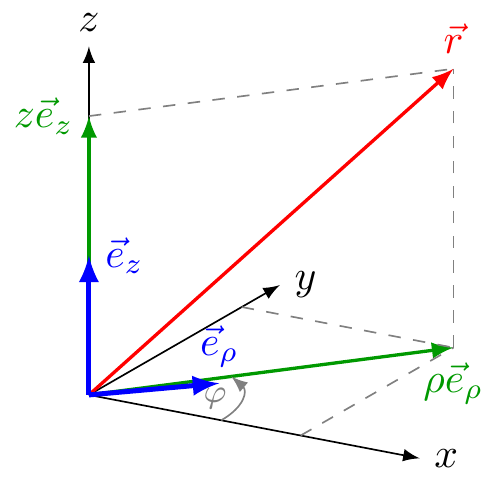
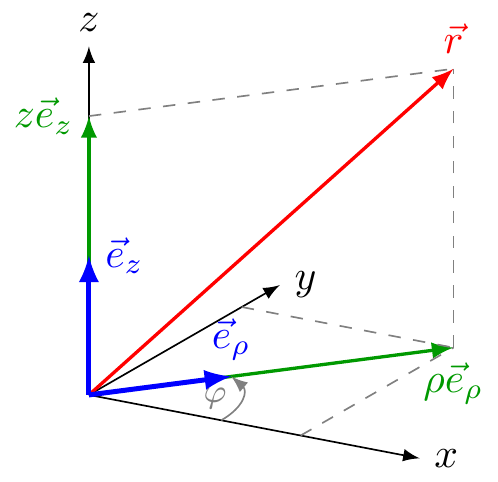
fix typo

Changed region(s): [[0.1807, 0.6535, 0.512, 0.8402]]

diff --git a/mathematics/cylinder-space-vector/cylinder-space-vector.tex b/mathematics/cylinder-space-vector/cylinder-space-vector.tex
@@ -65,7 +65,7 @@
     \draw[gray,dashed] (axis cs:0,{\py},0) -- (axis cs: {\px},{\py},0);
     % unit vectors
     \draw[->,blue,very thick] (axis cs:0,0,0) -- (axis cs: 0,0,1) node[right] { $\vec{e}_z$ };
-    \draw[->,blue,very thick] (axis cs:0,0,0) -- (axis cs: {\px/sqrt(\px^2 + \py^2)},{\px/sqrt(\px^2 + \py^2)},0) node[above] { $\vec{e}_\rho$ };
+    \draw[->,blue,very thick] (axis cs:0,0,0) -- (axis cs: {\px/sqrt(\px^2 + \py^2)},{\py/sqrt(\px^2 + \py^2)},0) node[above] { $\vec{e}_\rho$ };
     % polar angle
     \draw[->,gray] (axis cs:1,0,0) arc (0:{atan(\py/\px)}:1) node[left,pos=0.5] {\footnotesize $\varphi$};
   \end{axis}

diff --git a/mathematics/cylinder-space-vector/cylinder-space-vector_inverted.tex b/mathematics/cylinder-space-vector/cylinder-space-vector_inverted.tex
@@ -74,7 +74,7 @@
     \draw[gray,dashed] (axis cs:0,{\py},0) -- (axis cs: {\px},{\py},0);
     % unit vectors
     \draw[->,blue,very thick] (axis cs:0,0,0) -- (axis cs: 0,0,1) node[right] { $\vec{e}_z$ };
-    \draw[->,blue,very thick] (axis cs:0,0,0) -- (axis cs: {\px/sqrt(\px^2 + \py^2)},{\px/sqrt(\px^2 + \py^2)},0) node[above] { $\vec{e}_\rho$ };
+    \draw[->,blue,very thick] (axis cs:0,0,0) -- (axis cs: {\px/sqrt(\px^2 + \py^2)},{\py/sqrt(\px^2 + \py^2)},0) node[above] { $\vec{e}_\rho$ };
     % polar angle
     \draw[->,gray] (axis cs:1,0,0) arc (0:{atan(\py/\px)}:1) node[left,pos=0.5] {\footnotesize $\varphi$};
   \end{axis}

diff --git a/mathematics.md b/mathematics.md
@@ -121,7 +121,7 @@
     \draw[gray,dashed] (axis cs:0,{\py},0) -- (axis cs: {\px},{\py},0);
     % unit vectors
     \draw[->,blue,very thick] (axis cs:0,0,0) -- (axis cs: 0,0,1) node[right] { $\vec{e}_z$ };
-    \draw[->,blue,very thick] (axis cs:0,0,0) -- (axis cs: {\px/sqrt(\px^2 + \py^2)},{\px/sqrt(\px^2 + \py^2)},0) node[above] { $\vec{e}_\rho$ };
+    \draw[->,blue,very thick] (axis cs:0,0,0) -- (axis cs: {\px/sqrt(\px^2 + \py^2)},{\py/sqrt(\px^2 + \py^2)},0) node[above] { $\vec{e}_\rho$ };
     % polar angle
     \draw[->,gray] (axis cs:1,0,0) arc (0:{atan(\py/\px)}:1) node[left,pos=0.5] {\footnotesize $\varphi$};
   \end{axis}
@@ -1402,6 +1402,82 @@
 \end{tikzpicture}
 \end{document}
 ~~~
+## sphere-space-vector.svg
+[![sphere-space-vector.svg](mathematics/sphere-space-vector/sphere-space-vector.svg "sphere-space-vector.svg")](mathematics/sphere-space-vector/sphere-space-vector.svg) [[PDF]](mathematics/sphere-space-vector/sphere-space-vector.pdf) [[PNG]](mathematics/sphere-space-vector/sphere-space-vector.png) [[SVG]](mathematics/sphere-space-vector/sphere-space-vector.svg)
+~~~.tex
+\documentclass[crop,tikz]{standalone}
+
+\usepackage{amsmath,amssymb}
+\usepackage{physics}
+\usepackage{pgfplots}
+\pgfplotsset{compat=1.16}
+\tikzset{>=latex}
+
+\colorlet{green}{black!40!green}
+
+\pgfplotsset{
+  inverted/.style = {
+    every axis legend/.append style={
+      draw=white,
+      fill=black,
+      text=white
+    }
+  },
+  every non boxed x axis/.append style={
+    axis line style={-latex}
+  },
+  every non boxed y axis/.append style={
+    axis line style={-latex}
+  },
+  every non boxed z axis/.append style={
+    axis line style={-latex}
+  },
+}
+
+\begin{document}
+\begin{tikzpicture}
+  \pgfmathsetmacro{\px}{1.6};
+  \pgfmathsetmacro{\py}{2};
+  \pgfmathsetmacro{\pz}{2};
+  \begin{axis}[
+    width=6cm,
+    height=6cm,
+    view={30}{20},
+    xlabel={$x$},
+    ylabel={$y$},
+    zlabel={$z$},
+    xmin=0,xmax=2.5,
+    ymin=0,ymax=2.5,
+    zmin=0, zmax=2.5,
+    xtick=\empty,
+    ytick=\empty,
+    ztick=\empty,
+    axis x line=middle,
+    axis y line=middle,
+    axis z line=middle,
+    xlabel style={right},
+    ylabel style={right},
+    zlabel style={above},
+    clip=false,
+    ]
+    % vector to space point
+    \draw[->,red,thick]  (axis cs:0,0,0) -- (axis cs: {\px},{\py},{\pz}) node[above] { $\vec{r}$ };
+    % projections onto x-y-plane and z-axis
+    \draw[->,green,thick] (axis cs:0,0,0) -- (axis cs: {\px},{\py},0) node[below] { $\rho\vec{e}_\rho$ };
+    \draw[->,green,thick] (axis cs:0,0,0) -- (axis cs: 0,0,{\pz}) node[left] { $z\vec{e}_z$ };
+    % help lines for projections
+    \draw[gray,dashed] (axis cs:{\px},{\py},0) -- (axis cs: {\px},{\py},{\pz});
+    \draw[gray,dashed] (axis cs:0,0,{\pz}) -- (axis cs: {\px},{\py},{\pz});
+    \draw[gray,dashed] (axis cs:{\px},0,0) -- (axis cs: {\px},{\py},0);
+    \draw[gray,dashed] (axis cs:0,{\py},0) -- (axis cs: {\px},{\py},0);
+    % unit vector
+    \draw[->,blue,very thick] (axis cs:0,0,0) -- (axis cs: {\px/sqrt(\px^2 + \py^2 + \pz^2)},{\py/sqrt(\px^2 + \py^2 + \pz^2)},{\pz/sqrt(\px^2 + \py^2 + \pz^2)}) node[above] { $\vec{e}_\rho$ };
+    % polar angle
+    \draw[->,gray] (axis cs:1,0,0) arc (0:{atan(\py/\px)}:1) node[left,pos=0.5] {\footnotesize $\varphi$};
+  \end{axis}
+\end{tikzpicture}
+\end{document}
+~~~
 ## sqr.svg
 [![sqr.svg](mathematics/sqr/sqr.svg "sqr.svg")](mathematics/sqr/sqr.svg) [[PDF]](mathematics/sqr/sqr.pdf) [[PNG]](mathematics/sqr/sqr.png) [[SVG]](mathematics/sqr/sqr.svg)
 ~~~.tex
@@ -1993,7 +2069,7 @@
     \draw[gray,dashed] (axis cs:0,{\py},0) -- (axis cs: {\px},{\py},0);
     % unit vectors
     \draw[->,blue,very thick] (axis cs:0,0,0) -- (axis cs: 0,0,1) node[right] { $\vec{e}_z$ };
-    \draw[->,blue,very thick] (axis cs:0,0,0) -- (axis cs: {\px/sqrt(\px^2 + \py^2)},{\px/sqrt(\px^2 + \py^2)},0) node[above] { $\vec{e}_\rho$ };
+    \draw[->,blue,very thick] (axis cs:0,0,0) -- (axis cs: {\px/sqrt(\px^2 + \py^2)},{\py/sqrt(\px^2 + \py^2)},0) node[above] { $\vec{e}_\rho$ };
     % polar angle
     \draw[->,gray] (axis cs:1,0,0) arc (0:{atan(\py/\px)}:1) node[left,pos=0.5] {\footnotesize $\varphi$};
   \end{axis}
@@ -3496,6 +3572,91 @@
   ]
   \addplot[red,smooth] { sin(deg(x)) };
 \end{axis}
+\end{tikzpicture}
+\end{document}
+~~~
+## sphere-space-vector_inverted.svg
+[![sphere-space-vector_inverted.svg](mathematics/sphere-space-vector/sphere-space-vector_inverted.svg "sphere-space-vector_inverted.svg")](mathematics/sphere-space-vector/sphere-space-vector_inverted.svg) [[PDF]](mathematics/sphere-space-vector/sphere-space-vector_inverted.pdf) [[PNG]](mathematics/sphere-space-vector/sphere-space-vector_inverted.png) [[SVG]](mathematics/sphere-space-vector/sphere-space-vector_inverted.svg)
+~~~.tex
+\documentclass[crop,tikz]{standalone}
+\usetikzlibrary{backgrounds}
+\colorlet{blue}{cyan}
+\tikzset{
+  inverted/.style = {
+    color=white,
+    background rectangle/.style={fill},
+    show background rectangle
+  }
+}
+
+\usepackage{amsmath,amssymb}
+\usepackage{physics}
+\usepackage{pgfplots}
+\pgfplotsset{compat=1.16}
+\tikzset{>=latex}
+
+\colorlet{green}{green}
+
+\pgfplotsset{
+  inverted/.style = {
+    every axis legend/.append style={
+      draw=white,
+      fill=white,
+      text=white
+    }
+  },
+  every non boxed x axis/.append style={
+    axis line style={-latex}
+  },
+  every non boxed y axis/.append style={
+    axis line style={-latex}
+  },
+  every non boxed z axis/.append style={
+    axis line style={-latex}
+  },
+}
+
+\begin{document}
+\begin{tikzpicture}[inverted,inverted]
+  \pgfmathsetmacro{\px}{1.6};
+  \pgfmathsetmacro{\py}{2};
+  \pgfmathsetmacro{\pz}{2};
+  \begin{axis}[inverted,
+    width=6cm,
+    height=6cm,
+    view={30}{20},
+    xlabel={$x$},
+    ylabel={$y$},
+    zlabel={$z$},
+    xmin=0,xmax=2.5,
+    ymin=0,ymax=2.5,
+    zmin=0, zmax=2.5,
+    xtick=\empty,
+    ytick=\empty,
+    ztick=\empty,
+    axis x line=middle,
+    axis y line=middle,
+    axis z line=middle,
+    xlabel style={right},
+    ylabel style={right},
+    zlabel style={above},
+    clip=false,
+    ]
+    % vector to space point
+    \draw[->,red,thick]  (axis cs:0,0,0) -- (axis cs: {\px},{\py},{\pz}) node[above] { $\vec{r}$ };
+    % projections onto x-y-plane and z-axis
+    \draw[->,green,thick] (axis cs:0,0,0) -- (axis cs: {\px},{\py},0) node[below] { $\rho\vec{e}_\rho$ };
+    \draw[->,green,thick] (axis cs:0,0,0) -- (axis cs: 0,0,{\pz}) node[left] { $z\vec{e}_z$ };
+    % help lines for projections
+    \draw[gray,dashed] (axis cs:{\px},{\py},0) -- (axis cs: {\px},{\py},{\pz});
+    \draw[gray,dashed] (axis cs:0,0,{\pz}) -- (axis cs: {\px},{\py},{\pz});
+    \draw[gray,dashed] (axis cs:{\px},0,0) -- (axis cs: {\px},{\py},0);
+    \draw[gray,dashed] (axis cs:0,{\py},0) -- (axis cs: {\px},{\py},0);
+    % unit vector
+    \draw[->,blue,very thick] (axis cs:0,0,0) -- (axis cs: {\px/sqrt(\px^2 + \py^2 + \pz^2)},{\py/sqrt(\px^2 + \py^2 + \pz^2)},{\pz/sqrt(\px^2 + \py^2 + \pz^2)}) node[above] { $\vec{e}_\rho$ };
+    % polar angle
+    \draw[->,gray] (axis cs:1,0,0) arc (0:{atan(\py/\px)}:1) node[left,pos=0.5] {\footnotesize $\varphi$};
+  \end{axis}
 \end{tikzpicture}
 \end{document}
 ~~~
